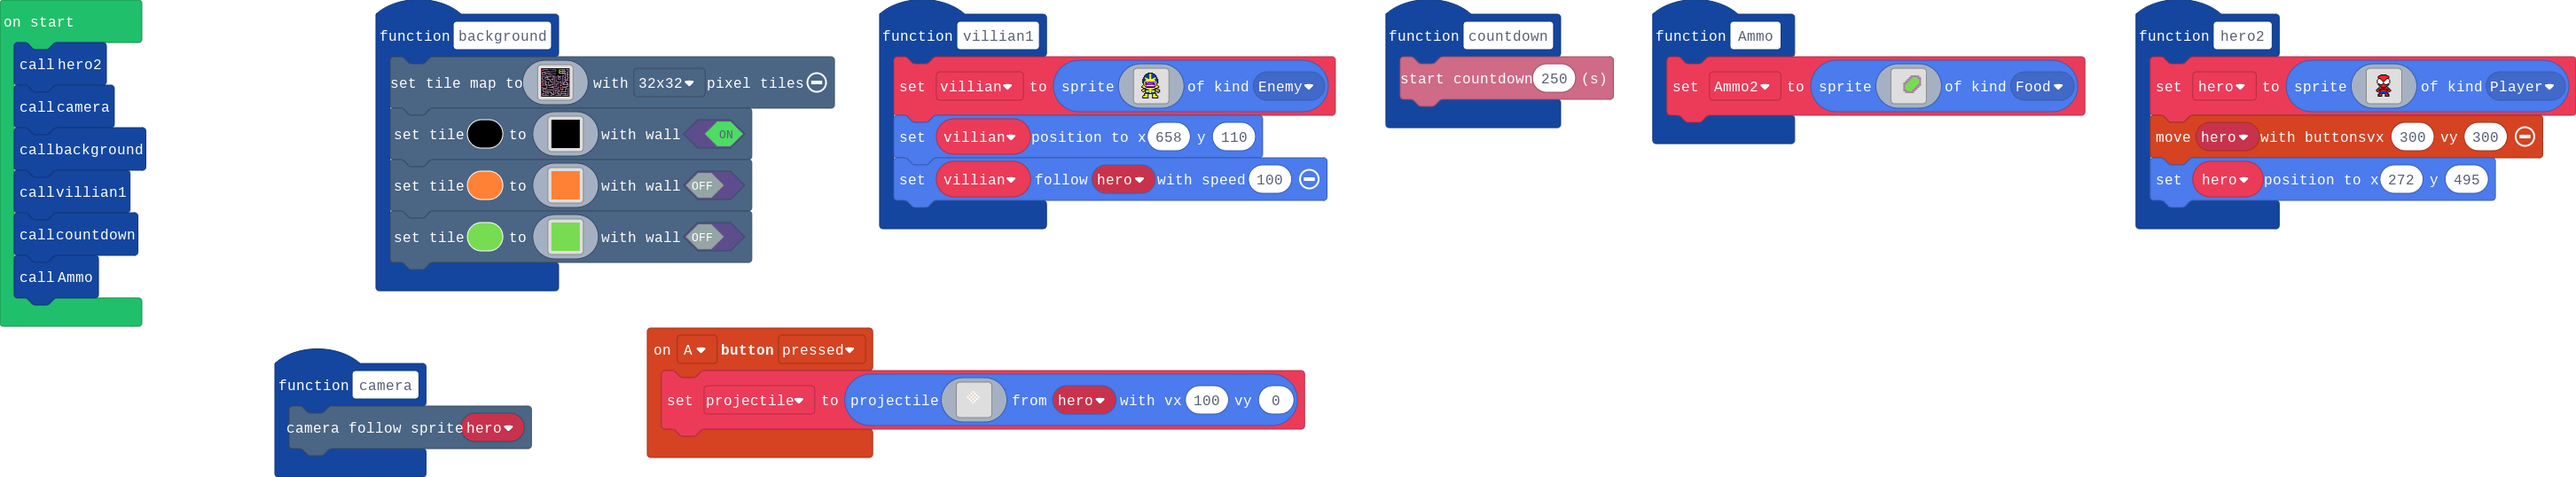
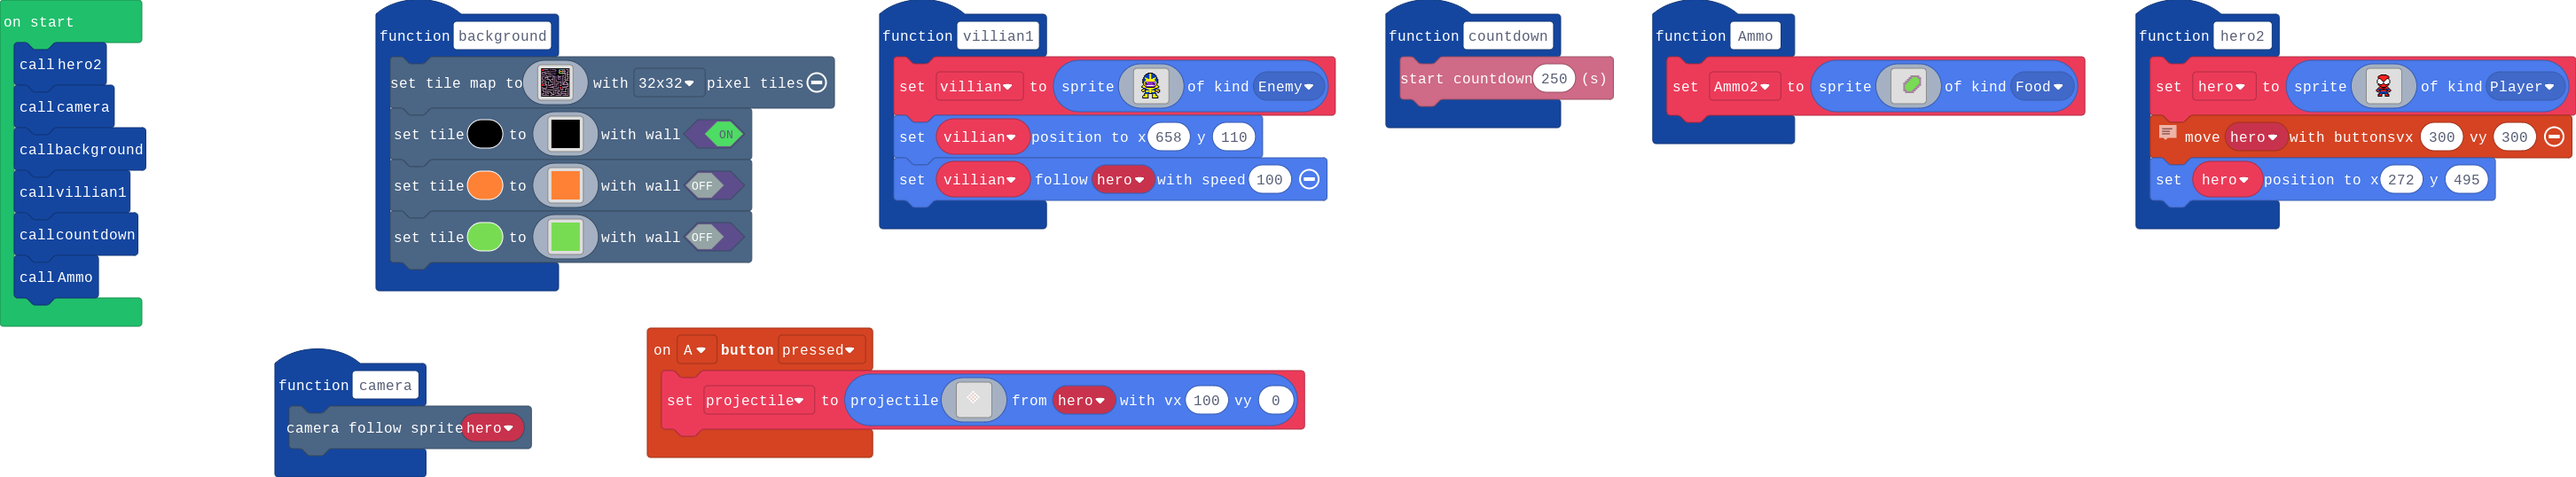
Update main.blocks, main.ts

Changed region(s): [[0.8365, 0.2379, 1.0, 0.3569]]

diff --git a/main.ts b/main.ts
@@ -33,6 +33,7 @@ function hero2 () {
 . . . . . . . . . . . . . . . . . . . . . . . . . . . . . . . . 
 . . . . . . . . . . . . . . . . . . . . . . . . . . . . . . . . 
 `, SpriteKind.Player)
+    // It moves the hero x and y
     controller.moveSprite(hero, 300, 300)
     hero.setPosition(272, 495)
 }
